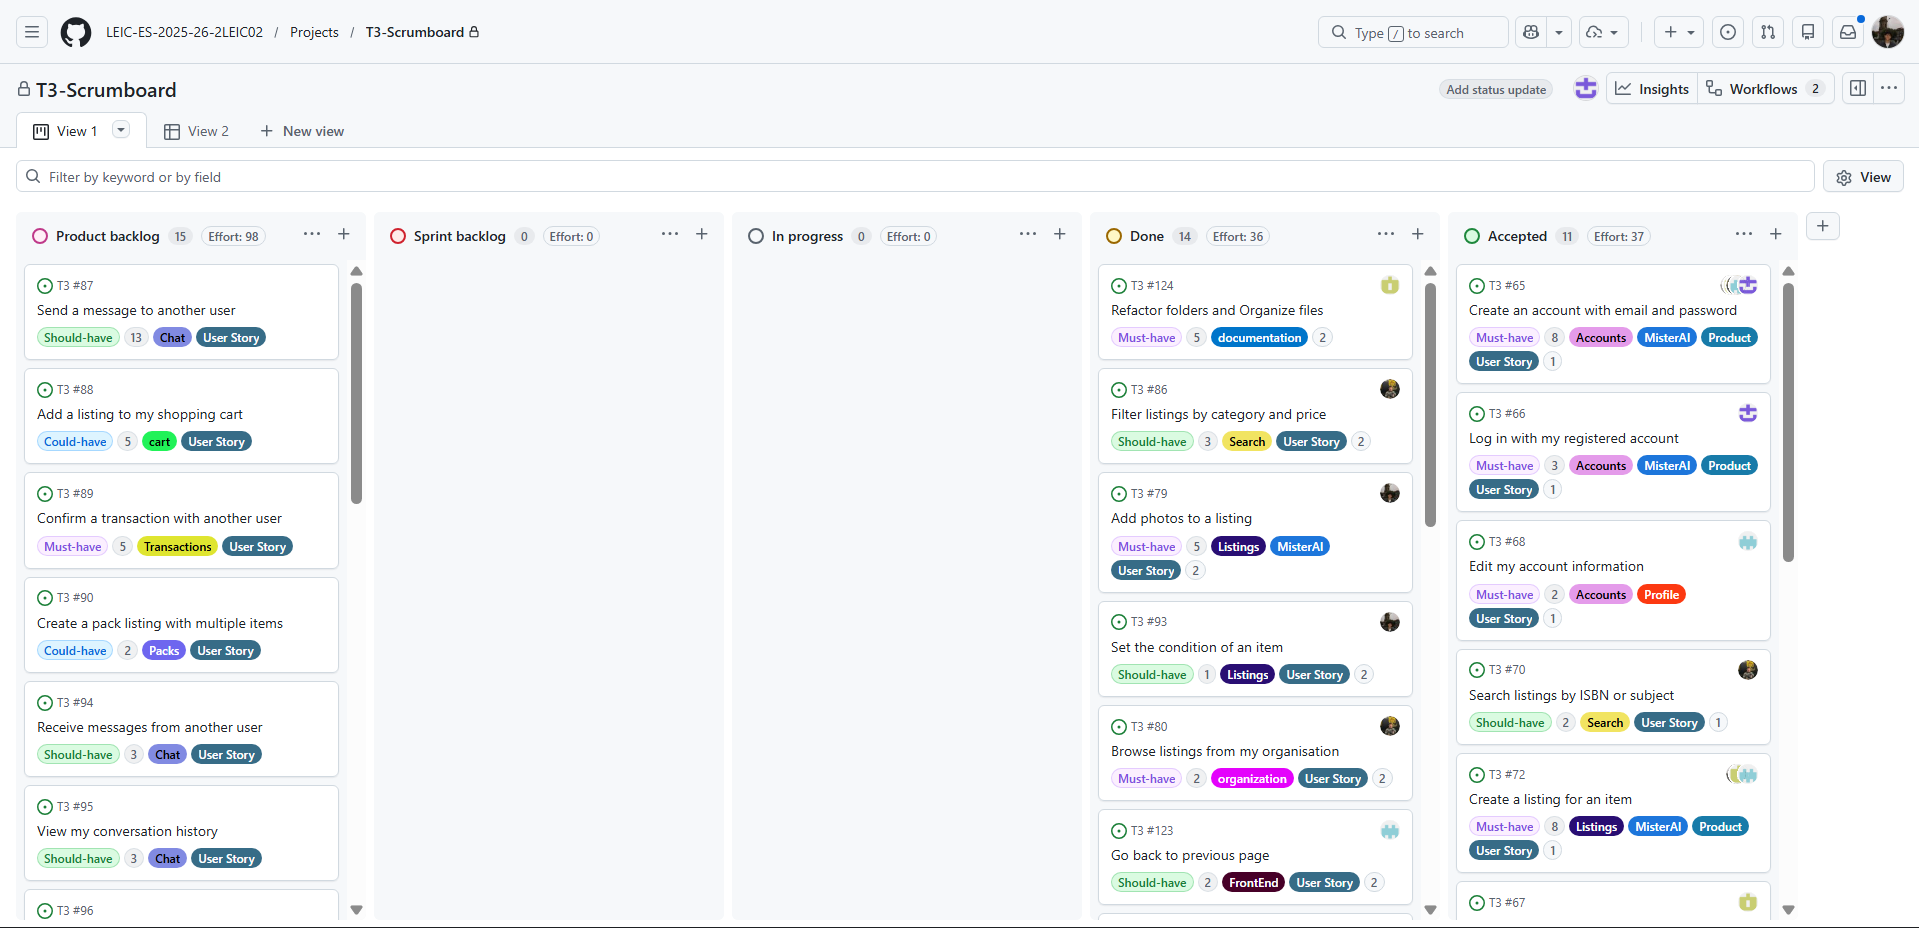
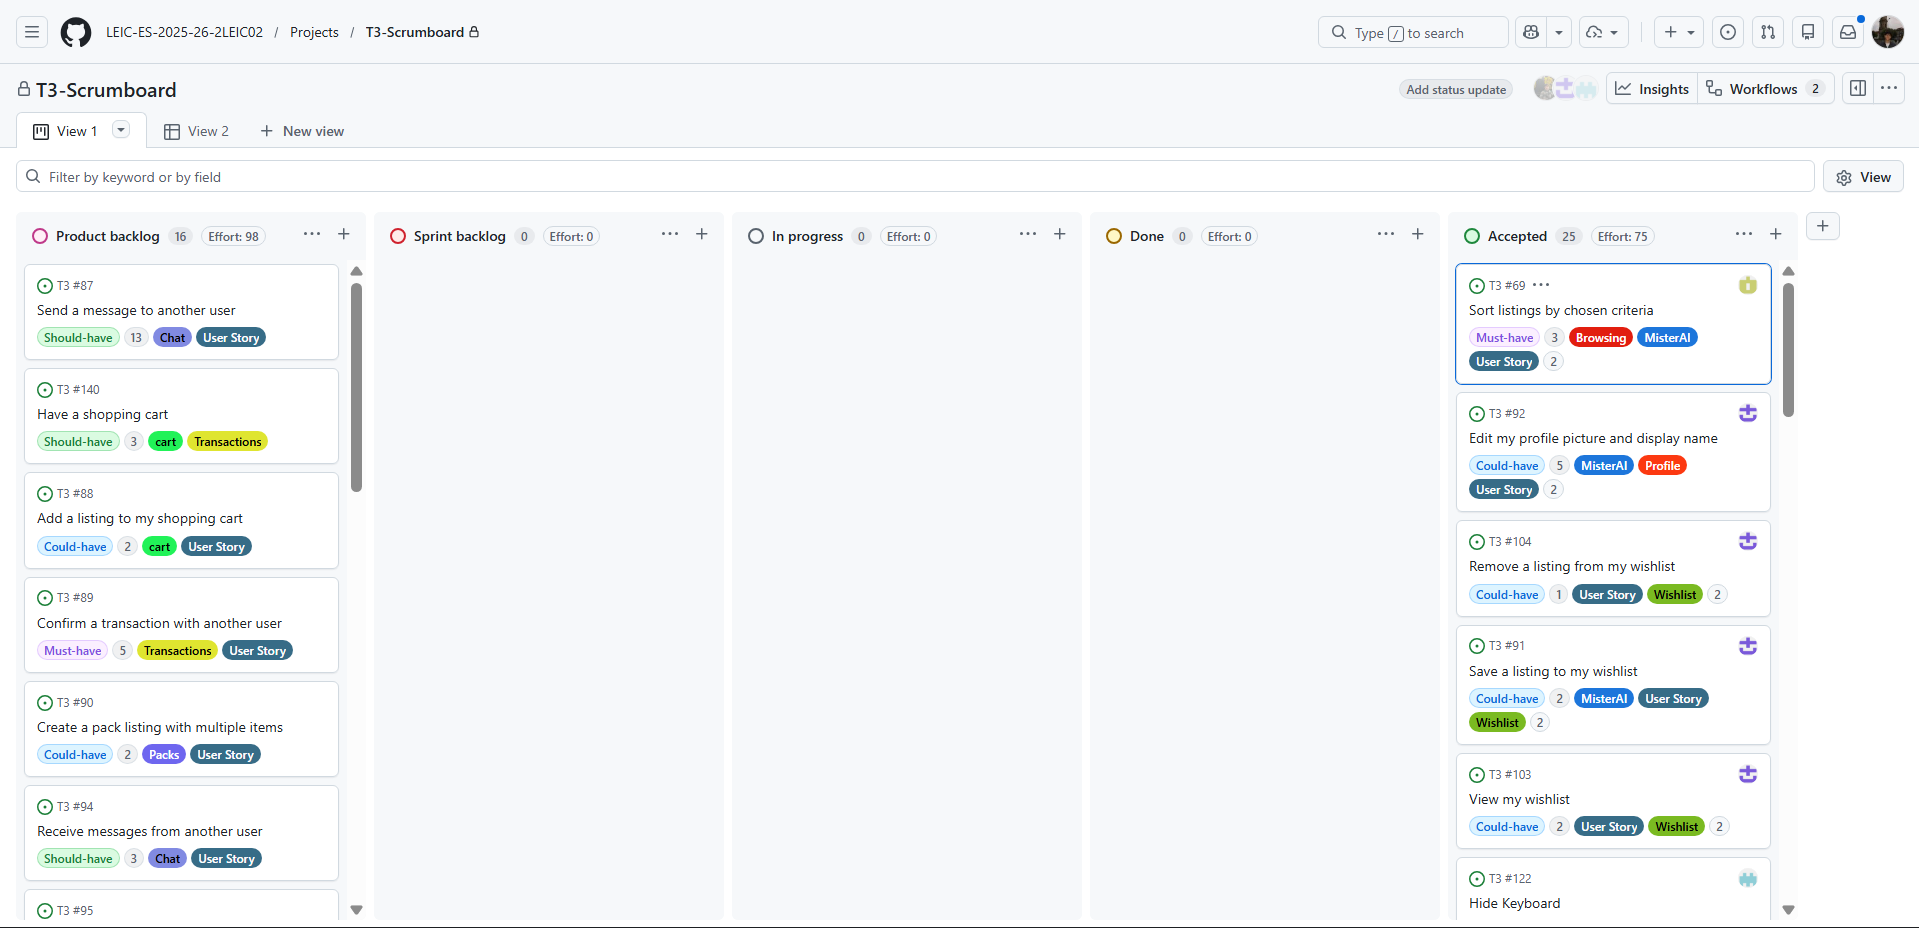
Added sprint retrospective

diff --git a/README.md b/README.md
@@ -275,28 +275,18 @@ During the Sprint 0 Review, the teaching staff identified the following issues t
 | 4   | **PBIs must be well specified**                  | Each PBI was rewritten with clear, testable acceptance criteria (Given/When/Then format) and linked to the corresponding feature branch and pull request.    |
 | 5   | **Not sure about the CI pipeline**               | The pipeline was stabilised: a merge-blocking error was fixed, flaky timeout tests were removed, and the full unit-test suite was merged into `development`. |
 
-#### Retrospective
+#### Sprint Retrospective
 
 **What went well**
-All six planned PBIs were delivered and merged into `development` before the review deadline. Firebase Authentication and profile management were successfully integrated end-to-end. The CI pipeline was stabilised, unblocking the team from merge conflicts that plagued Sprint 0. Test coverage improved across authentication and profile flows.
+All six planned PBIs were delivered and merged into development before the review deadline. Firebase Authentication and profile management were successfully integrated end-to-end. The CI pipeline was stabilised, unblocking the team from merge conflicts that plagued Sprint 0. Test coverage improved across authentication and profile flows.
 
-**Issues identified in the Sprint 1 Review**
+Retrospective includes suggestions for improvement and a strategy including verifiable action points:
 
-The Sprint 1 Review session surfaced the following problems that the team committed to addressing in Sprint 2.
-
-| #   | Issue                                                                                                                                                                                   | Root Cause                                                                                                                           | Action Point for Sprint 2                                                                                                                                                                                                                            |
-| --- | --------------------------------------------------------------------------------------------------------------------------------------------------------------------------------------- | ------------------------------------------------------------------------------------------------------------------------------------ | ---------------------------------------------------------------------------------------------------------------------------------------------------------------------------------------------------------------------------------------------------- |
-| 1   | **Sprint tags missing on issues** — issues on the GitHub Projects board were not labelled with the corresponding sprint tag, making traceability and filtering difficult                | Labels were never systematically applied when issues were created or moved across sprints                                            | Add `sprint-1`, `sprint-2`, … labels to the repository and retroactively tag all existing issues. Enforce tagging as a mandatory step in the Definition of Ready for all new issues.                                                                 |
-| 2   | **Back button does not work** — the back navigation button in several screens fails to navigate or crashes the app                                                                      | Navigation stack configuration is inconsistent; some screens were pushed without a proper parent route in the React Navigation stack | Audit every screen in the navigator. Ensure all detail/edit screens are nested inside a Stack navigator with a header back button enabled. Add a Maestro or Jest acceptance test that verifies back navigation before merging any screen-related PR. |
-| 3   | **No GitHub automation for deployment and metrics** — the project lacks automated deployment to a staging environment and has no visibility into build health or test metrics over time | The CI workflow only runs tests; no CD step or reporting job was ever configured                                                     | Extend `.github/workflows/ci.yml` with (a) an EAS build step triggered on merges to `development`, and (b) a test-results summary step that posts coverage and pass/fail counts as a PR comment.                                                     |
-
-**Strategy & verifiable action points**
-
-| Action Point                                               | Owner      | Verifiable Outcome                                                                                                                   |
-| ---------------------------------------------------------- | ---------- | ------------------------------------------------------------------------------------------------------------------------------------ |
-| Create and apply sprint-scoped labels to all issues        | Whole team | All open issues carry exactly one sprint label; confirmed via GitHub Issues filter `label:sprint-2` returning only Sprint 2 items    |
-| Fix back navigation on all screens and add regression test | Whole team | `npx maestro test .maestro/back_navigation.yaml` passes in CI without manual intervention                                            |
-| Add CD + metrics step to GitHub Actions workflow           | Whole team | A new `deploy` job appears in the Actions tab after every merge to `development`; PR comments show test pass rate and coverage delta |
+| Suggestion for Improvement | Strategy / Action Point | Verifiable Outcome |
+|---|---|---|
+| **Sprint tags on issues** | Add sprint tags to each issue in GitHub. | All open issues carry exactly one sprint label. |
+| **Back button not working** | The back button does not function; fix the navigation routing. | Back button is fixed and an automated navigation test passes. |
+| **Automation, pipeline & tests** | Set up GitHub automation for app deployment and metrics, improve testing, document bugs/fixes, and enhance the pipeline. | Deploy jobs run on Actions; tests are improved, and PRs document metrics/fixes. |
 
 ---
 
@@ -322,13 +312,22 @@ During the Sprint 1 Review, the teaching staff and team identified the following
 | 2 | **Back button does not work** | All stack screens were audited. Swipe-right back navigation was implemented (`feat/swipeBack`, PR #129). |
 | 3 | **No GitHub automation for deployment and metrics** | A two-phase CI/CD pipeline was configured: Phase 1 runs lint + test coverage on every PR; Phase 2 triggers an EAS Android APK build on every merge to `main` (`feature/deployment-pipeline`, PR #126). |
 
-**Strategy & verifiable action points**
+#### Sprint Retrospective
 
-| Action Point | Owner | Verifiable Outcome |
+**What went well**
+The listing discovery experience was significantly expanded and delivered on time. Multi-photo uploads, mandatory condition validation, and ISBN tagging were successfully delivered. Feed sorting, wishlist saving functionalities, and a native swipe-right navigation were securely integrated, greatly improving the fluidity of the user experience.
+
+Retrospective includes suggestions for improvement and a strategy including verifiable action points:
+
+| Suggestion for Improvement | Strategy / Action Point | Verifiable Outcome |
 |---|---|---|
-| Correct README architecture section to reflect React Native stack | Whole team | README no longer references Flutter; all technology references match the actual codebase |
-| Investigate Firestore real-time listeners for the feed | Whole team | Feed screen uses `onSnapshot`; a manual refresh button is no longer necessary |
-| Design wishlist alert mechanism | Whole team | A user who has wishlisted an item receives a notification when a matching listing is published |
+| **Wishlist photos missing** | The wishlist does not fetch listing photos (Update queries to fetch images). | Wishlist screen successfully displays the correct listing images. |
+| **Top bar height incorrect** | The header bar on a listing needs to be moved lower (Add appropriate padding/margin). | Listing header aligns perfectly with other screens in the app. |
+| **Back button route wrong** | The "back" button doesn't return to the last tab, but goes to the homepage instead (Fix navigation stack). | Back button correctly restores the previously active tab or screen. |
+| **PR Reviews needed** | Pull requests must be approved by someone other than the author (Require reviewers). | Branch protection rules block merges without at least 1 approval. |
+| **Test Commits** | Keep up the practice: every push must include a commit containing tests for that feature. | All feature PRs include corresponding unit/e2e tests in their commits. |
+| **UI Responsiveness & Consistency**| Make the UI more responsive and consistent (Audit components and layout). | Screens adapt fluidly and use uniform dimensions, spacing, and styles. |
+| **Subject Selection Dropdown** | Change the subject selection in a listing to a searchable dropdown menu. | The 'Subject' field in New Listing is a searchable dropdown component. |
 
 ---
 
